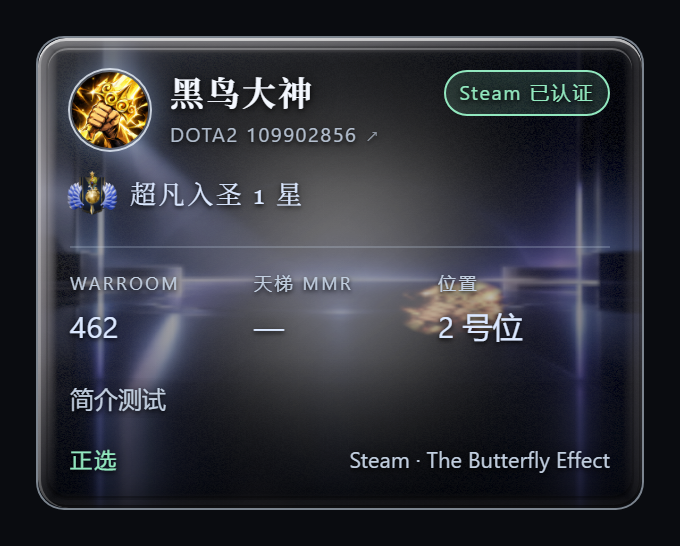
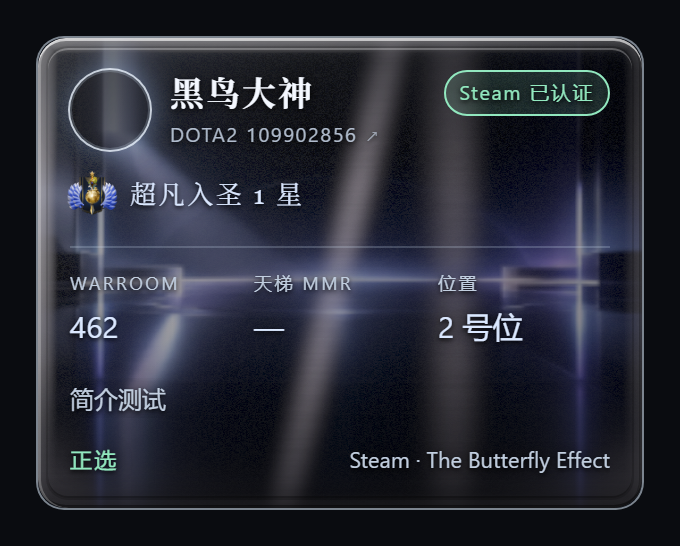
feat(card): 镜面高光改成灯箱扫光，柔光改为仅悬停
按用户提供的参考组件截图和源码：

1. **高光换成"灯箱"**：原来是一条 Blinn-Phong 点光，现在是参考组件的
   `softbox(qDir, sigma)` —— erf 收边的解析式光带，一条斜扫光 + 顶光 + 侧光，
   qDir = R.xy / R.z 是反射方向。截图里那条斜穿卡片的光带就是它。
2. **光带乘上丝纹**：`highlight *= 1 + (grain-0.5)*rough²*1.8`。这是"高光把
   拉丝照出来"的关键一步——没有它，丝纹只在暗部隐约可见。
3. **柔光只在悬停时出现**：新增 PlayerCard 的 glow（0..1，τ=160ms 随倾斜一起
   缓动），经 uMisc2.w 传进着色器。之前是常驻，静止时卡面中间永远挂一团光。
4. **模糊范围改成 0–20px**（和 props 表一致），sigma 里再叠 fwidth(qDir)，
   光带边缘随分辨率自然变软。
5. 没有场景图时改用参考组件的 room() 灰底房间兜底。

指针 XY 的方向和幅度仍未改动（tiltGain 0.13、slide 两轴同号）。

diff --git a/apps/web/src/lib/mirror.ts b/apps/web/src/lib/mirror.ts
@@ -44,6 +44,8 @@ export interface MirrorOptions {
   rankTier?: number | null;
   /** 头像地址：会作为场景里的一盏"肖像灯"映进板面（拿不到就不映，不影响其它） */
   avatarUrl?: string | null;
+  /** 悬浮量 0..1：柔光只在鼠标在卡上时出现，PlayerCard 会把它缓动后再传进来 */
+  hover?: number;
 }
 
 export interface MirrorPalette {
@@ -168,7 +170,7 @@ export interface MirrorParams {
   curvY: number;
   /** 颗粒（最终抖动） */
   grain: number;
-  /** 高光指数 */
+  /** 高光指数（保留位；灯箱光照不用它了） */
   specPower: number;
   /** 曝光 */
   exposure: number;
@@ -231,7 +233,7 @@ export const MIRROR_PARAM_RANGES: Record<keyof MirrorParams, readonly [number, n
   warpScale: [0.2, 4],
   metalness: [0, 1],
   roughness: [0, 1],
-  blurStrength: [0, 40],
+  blurStrength: [0, 20],
   grayscale: [0, 1],
   shine: [0, 3],
   bevel: [0, 16],
@@ -496,6 +498,41 @@ vec3 environment(vec3 R, vec2 uvScene) {
   return uEnvReady.x > 0.5 ? sceneEnvironment(uvScene) : proceduralEnvironment(R);
 }
 
+// 柔边条带 / 灯箱：从参考组件的 PLATE 那几支搬过来的（erf 收边的解析式光带）。
+// 比"hdv 高次幂"更像照片里的反光板：一条有宽度的斜光，扫过时能把丝纹照出来。
+float erfA(float x) {
+  float x2 = x * x;
+  return sign(x) * sqrt(1.0 - exp(-x2 * (1.2732395 + 0.147 * x2) / (1.0 + 0.147 * x2)));
+}
+
+float bandA(float x, float halfWidth, float sigma) {
+  float s = 1.4142136 * max(sigma, 0.0001);
+  return 0.5 * (erfA((x + halfWidth) / s) - erfA((x - halfWidth) / s));
+}
+
+float stripA(vec2 q, vec2 center, vec2 dir, float halfWidth, vec2 sigma) {
+  vec2 normal = vec2(-dir.y, dir.x);
+  return bandA(dot(q - center, normal), halfWidth, length(sigma * normal));
+}
+
+/**
+ * 灯箱：一条斜扫光 + 顶部一条 + 右侧一条。
+ * 方位照抄参考组件（SWEEP = (0.5, 0.86)），因为截图里那条光带就是这个走向。
+ */
+float softbox(vec2 q, vec2 sigma) {
+  float key = stripA(q, vec2(-0.1, -0.16), normalize(vec2(0.5, 0.86)), 0.022, sigma + 0.018);
+  float top = bandA(q.y + 0.6, 0.12, sigma.y + 0.05);
+  float side = bandA(q.x - 0.46, 0.05, sigma.x + 0.05);
+  return key + top * 0.8 + side * 0.35;
+}
+
+/** 没有场景图时的"房间"：参考组件 room() 的灰底版本 */
+float room(float y, vec2 q, vec2 sigma) {
+  float fall = smoothstep(-0.55, 0.5, y);
+  float flag = stripA(q, vec2(0.24, -0.02), normalize(vec2(0.5, 0.86)), 0.09, sigma + 0.08);
+  return mix(0.85, 0.12, fall) * (1.0 - 0.6 * flag);
+}
+
 void main() {
   vec2 uv = gl_FragCoord.xy / uRes;
   float aspect = uRes.x / max(uRes.y, 1.0);
@@ -547,11 +584,7 @@ void main() {
   uvScene += ripple * 0.02;
 
   // 丝：只沿纵向微扰 → 画面被拉成横丝（幅度很小，不会把竖线拧弯）
-  uvScene.y += (grain - 0.5) * brush * 0.03;
-
-  vec3 Nlit = N;
-  Nlit.x += (grain - 0.5) * brush * 0.4;
-  Nlit = normalize(Nlit);
+  uvScene.y += (grain - 0.5) * brush * 0.05;
 
   // Fresnel：正对时是金属本色，掠射趋近全反射
   vec3 F = uTint + (1.0 - uTint) * pow(1.0 - ndv, 5.0);
@@ -564,19 +597,36 @@ void main() {
   // 丝的亮度调制（参考组件：scene *= 1 + (grain-0.5)*brush*0.3）
   col *= 1.0 + (grain - 0.5) * brush * 0.35;
 
-  // 顶光高光（Blinn-Phong 高次幂近似 GGX），被金属本色染色；哑光时同步减弱
-  vec3 L = normalize(vec3(-0.28, -0.52, 0.81));
-  vec3 H = normalize(L + V);
-  col += uTint
-       * pow(clamp(dot(Nlit, H), 0.0, 1.0), uLightCfg.x)
-       * uLightCfg.y
-       * mix(0.4, 1.0, uMisc2.x);
+  /* ---------------------------------------------------------------- 灯箱光照
+     按参考组件实现：**不是点状高光，是一条有宽度的反光板**。
+     qDir = R.xy / R.z 是"反射方向"，灯箱在这张方向图上刻出斜光 / 顶光 / 侧光；
+     sigma 让光带边缘随模糊、丝纹扩散——所以光带扫过时能把丝纹照出来。
+     柔光（glare）**只在鼠标悬浮时出现**（uMisc2.w = 0..1 的悬浮量）。 */
+  vec2 qDir = R.xy / max(R.z, 0.2);
+  vec2 footprint = fwidth(qDir);
+  float blurNorm = uSurface.z / 900.0;
+  vec2 sigma = sqrt(
+    vec2(blurNorm) * vec2(blurNorm) + footprint * footprint * 0.5
+  ) + vec2(0.004, 0.05) * uMisc.w;
 
-  // 跟着指针走的一团柔光。uv 的 y 朝上，而 uTilt.y 是"指针越靠下越大"，
-  // 所以 y 要取反——否则指针在下半张卡、光斑跑到上半张（用户报过）。
-  vec2 glareAt = vec2(0.5 + uTilt.x * 0.26, 0.5 - uTilt.y * 0.26);
-  float glareDist = length((uv - glareAt) * vec2(aspect, 1.0));
-  col += vec3(1.0, 0.98, 0.95) * exp(-glareDist * glareDist * 16.0) * uLightCfg.z;
+  float soft = softbox(qDir, sigma);
+
+  vec2 toPointer = vec2(uTilt.x, -uTilt.y) * 1.6;
+  vec2 spread = toPointer * vec2(1.0, 1.0 / (1.0 + 2.5 * uMisc.w));
+  float reach = dot(spread, spread);
+  float glint = max(1.0 + 3.0 * dot(N.xy, toPointer), 0.0);
+  float glare =
+      (exp(-reach * 1.6) + exp(-reach * 0.35) * 0.15) * glint * uLightCfg.z * uMisc2.w;
+
+  // 高光乘上丝纹：这就是"高光把拉丝质感透露出来"的那一步
+  float highlight = (soft * uLightCfg.y + glare) * mix(0.4, 1.0, uMisc2.x);
+  highlight *= 1.0 + (grain - 0.5) * brush * 1.8;
+  col += uTint * highlight * 0.55;
+
+  // 没有场景图时，用参考组件的灰底房间兜底（叠在反射上面）
+  if (uEnvReady.x < 0.5) {
+    col = mix(col, uTint * room(qDir.y, qDir, sigma), 0.85);
+  }
 
   // 倒角：紧贴边内侧压一道，再在倒角面上按光来的方向补一记亮线。
   // 有方向的倒角才像压出来的钢板；四边等亮的圆环只会像描边。
@@ -937,6 +987,8 @@ export function renderMirrorFrame(
   if (!ctx) return;
 
   const palette = mirrorPalette(options.key ?? '', options.rankTier);
+  // 悬浮量：只在鼠标在卡上时才有柔光（参考组件也是 hover 才亮）
+  const hover = Math.min(1, Math.max(0, options.hover ?? 0));
   if (!state) state = createState();
 
   const glState = state;
@@ -981,8 +1033,8 @@ export function renderMirrorFrame(
       params.spotStrength,
     );
     gl.uniform4f(glState.misc, params.avatarGain, params.lampWarm, params.warp, params.roughness);
-    gl.uniform4f(glState.misc2, params.metalness, params.grayscale, params.warpScale, 0);
-    gl.uniform4f(glState.surface, params.curvX, params.curvY, 0, params.grain);
+    gl.uniform4f(glState.misc2, params.metalness, params.grayscale, params.warpScale, hover);
+    gl.uniform4f(glState.surface, params.curvX, params.curvY, params.blurStrength, params.grain);
     gl.uniform4f(glState.lightCfg, params.specPower, params.shine, params.glare, params.exposure);
     gl.uniform4f(
       glState.rimCfg,

diff --git a/apps/web/src/components/PlayerCard.vue b/apps/web/src/components/PlayerCard.vue
@@ -119,6 +119,8 @@ const aim = { mx: 50, my: 50 };
  * 所以卡片姿态和卡面内容永远同步；同时指针事件再密也只有 60fps 一次渲染。
  */
 const at = ref({ mx: 50, my: 50 });
+/** 悬浮量 0..1：镜面的柔光只在鼠标在卡上时出现，和倾斜一起缓动 */
+const glow = ref(0);
 
 /** 时间常数（ms）：越大越黏。进卡那一下的"过渡时间"就是它决定的 */
 const ENTER_TAU = 110;
@@ -138,8 +140,15 @@ function tiltStep(now: number) {
   const k = 1 - Math.exp(-dt / (hovered.value ? ENTER_TAU : LEAVE_TAU));
   const mx = at.value.mx + (aim.mx - at.value.mx) * k;
   const my = at.value.my + (aim.my - at.value.my) * k;
+  const target = hovered.value ? 1 : 0;
+  const glowNext = glow.value + (target - glow.value) * (1 - Math.exp(-dt / 160));
+  glow.value = Math.abs(target - glowNext) < 0.01 ? target : glowNext;
   // 足够接近就吸附并停掉循环，别让一张卡常驻 rAF
-  if (Math.abs(aim.mx - mx) < 0.12 && Math.abs(aim.my - my) < 0.12) {
+  if (
+    Math.abs(aim.mx - mx) < 0.12 &&
+    Math.abs(aim.my - my) < 0.12 &&
+    glow.value === target
+  ) {
     at.value = { mx: aim.mx, my: aim.my };
     tiltLast = 0;
     return;
@@ -171,6 +180,7 @@ function onPointerMove(event: PointerEvent) {
   hovered.value = true;
   if (reducedMotion()) {
     at.value = { mx: aim.mx, my: aim.my };
+    glow.value = 1;
     return;
   }
   runTilt();
@@ -182,6 +192,7 @@ function onPointerLeave() {
   hovered.value = false;
   if (reducedMotion()) {
     at.value = { mx: 50, my: 50 };
+    glow.value = 0;
     return;
   }
   runTilt();
@@ -229,6 +240,7 @@ function paintSurface() {
       key: props.player.userId,
       rankTier: props.player.rankTier,
       avatarUrl: avatarUrl.value,
+      hover: glow.value,
     });
   }
 }
@@ -244,7 +256,7 @@ function scheduleSurface() {
 watch(
   // revision 是给「调整参数」弹窗用的：材质自身的可调参数不在 props 里，
   // 改完只能靠外部顶一个计数让卡片重画一帧。
-  () => [skin.value.material, at.value.mx, at.value.my, props.revision],
+  () => [skin.value.material, at.value.mx, at.value.my, glow.value, props.revision],
   () => {
     // canvas 是 v-if 出来的：挂载后要重新 observe，才能拿到第一帧的尺寸
     const canvas = surfaceCanvas.value;

diff --git a/apps/web/src/lib/changelog.ts b/apps/web/src/lib/changelog.ts
@@ -16,7 +16,7 @@
  * 和 APP_VERSION 对不上就自动弹一次，之后只能从页脚的版本号点开，
  * 避免每次刷新都弹出。
  */
-export const APP_VERSION = '1.12.0';
+export const APP_VERSION = '1.13.0';
 
 export interface ReleaseNote {
   version: string;
@@ -26,6 +26,15 @@ export interface ReleaseNote {
 }
 
 export const RELEASES: ReleaseNote[] = [
+  {
+    version: '1.13.0',
+    date: '2026-11-10',
+    items: [
+      '镜面：高光改成斜扫光带，扫过时透出拉丝质感',
+      '镜面：柔光只在鼠标悬停时出现',
+      '镜面：模糊范围改为 0–20px',
+    ],
+  },
   {
     version: '1.12.0',
     date: '2026-11-10',

diff --git a/docs/UI.md b/docs/UI.md
@@ -357,7 +357,9 @@ CSS 变量：--foil-light-x / --foil-light-y / --foil-angle / --foil-intensity /
       - 反射里只要 `_medium.jpg`（64px / 2.6KB），把 `_full` 按正则换掉即可；显示用的那张照旧。
       - 降级是三层：**有图有头像 → 场景 + 肖像灯；只有图 → 干净的场景反射；连图都没有（或 WebGL2 不可用）→ `proceduralEnvironment()`**（一间程序化的黑房间，硬边地平线 + 两块灯窗 + 两道灯条 + 段位色副光）。
       - **参数表对齐参考组件**（`ReflectiveCard` 的 props）：常用 10 项 —— 金属度（`metalness`）、拉丝（`roughness`）、模糊（`blurStrength`）、去色（`grayscale`）、高光（`shine`）、柔光（`glare`）、倒角（`bevel`）、形变（`warp`）、形变尺度（`warpScale`）、倾斜强度（`tiltGain`）；其余 16 项折叠在「高级参数」里。**拉丝就是 roughness**，别再加一个 `brush` 参数——参考组件里它就是"金属丝纹"本身。
-      - **`blurStrength`（px）换算成取样 mip = log2(blur)**：参考组件是把 env 画小再模糊（env 宽度 ∝ 1/blur），取 mip 是等价的近似。blur 6 → 2.6 级（环境约 170px）。
+      - **高光是"灯箱"，不是点光源**（照参考组件的 PLATE 实现）：`softbox(qDir, sigma)` 用 erf 收边的解析式光带画出**一条斜扫光 + 顶光 + 侧光**，`qDir = R.xy / R.z` 是反射方向。光带乘上丝纹（`highlight *= 1 + (grain-0.5)*rough²*1.8`）——**这就是"高光把拉丝照出来"的那一步**，没有这个乘法，丝纹就只在暗部隐约可见。
+      - **柔光（glare）只在鼠标在卡上时出现**：`uMisc2.w` 是 0..1 的悬浮量，由 `PlayerCard` 的 `glow` 缓动后传进来（τ = 160ms）。之前写成常驻，静止时卡面中间永远挂着一团光（用户报过）。
+      - **模糊是 0–20px**（`blurStrength`），换算成取样 mip = `log2(blur)`；`sigma` 里再叠 `fwidth(qDir)` 让光带边缘随分辨率自然变软。
       - **拉丝的实现**：三档 valueNoise 沿 y 高频、x 低频叠起来（`p.x*0.008 / p.y*0.55` 等），做两件事——① 微扰反射的**纵向**取样（画面被拉成横丝，这就是金属感来源）；② 调制亮度（`col *= 1 + (grain-0.5)*rough²*0.35`）。系数都压得很小：丝是"质感"，不是"扭曲"。
       - **`warp` 是表面涟漪**（不是鱼眼）：低频噪声给取样坐标加一点偏移，`warpScale` 管涟漪尺度。0 = 完全平直。
       - **取样坐标是一条独立公式，和法线无关**：
